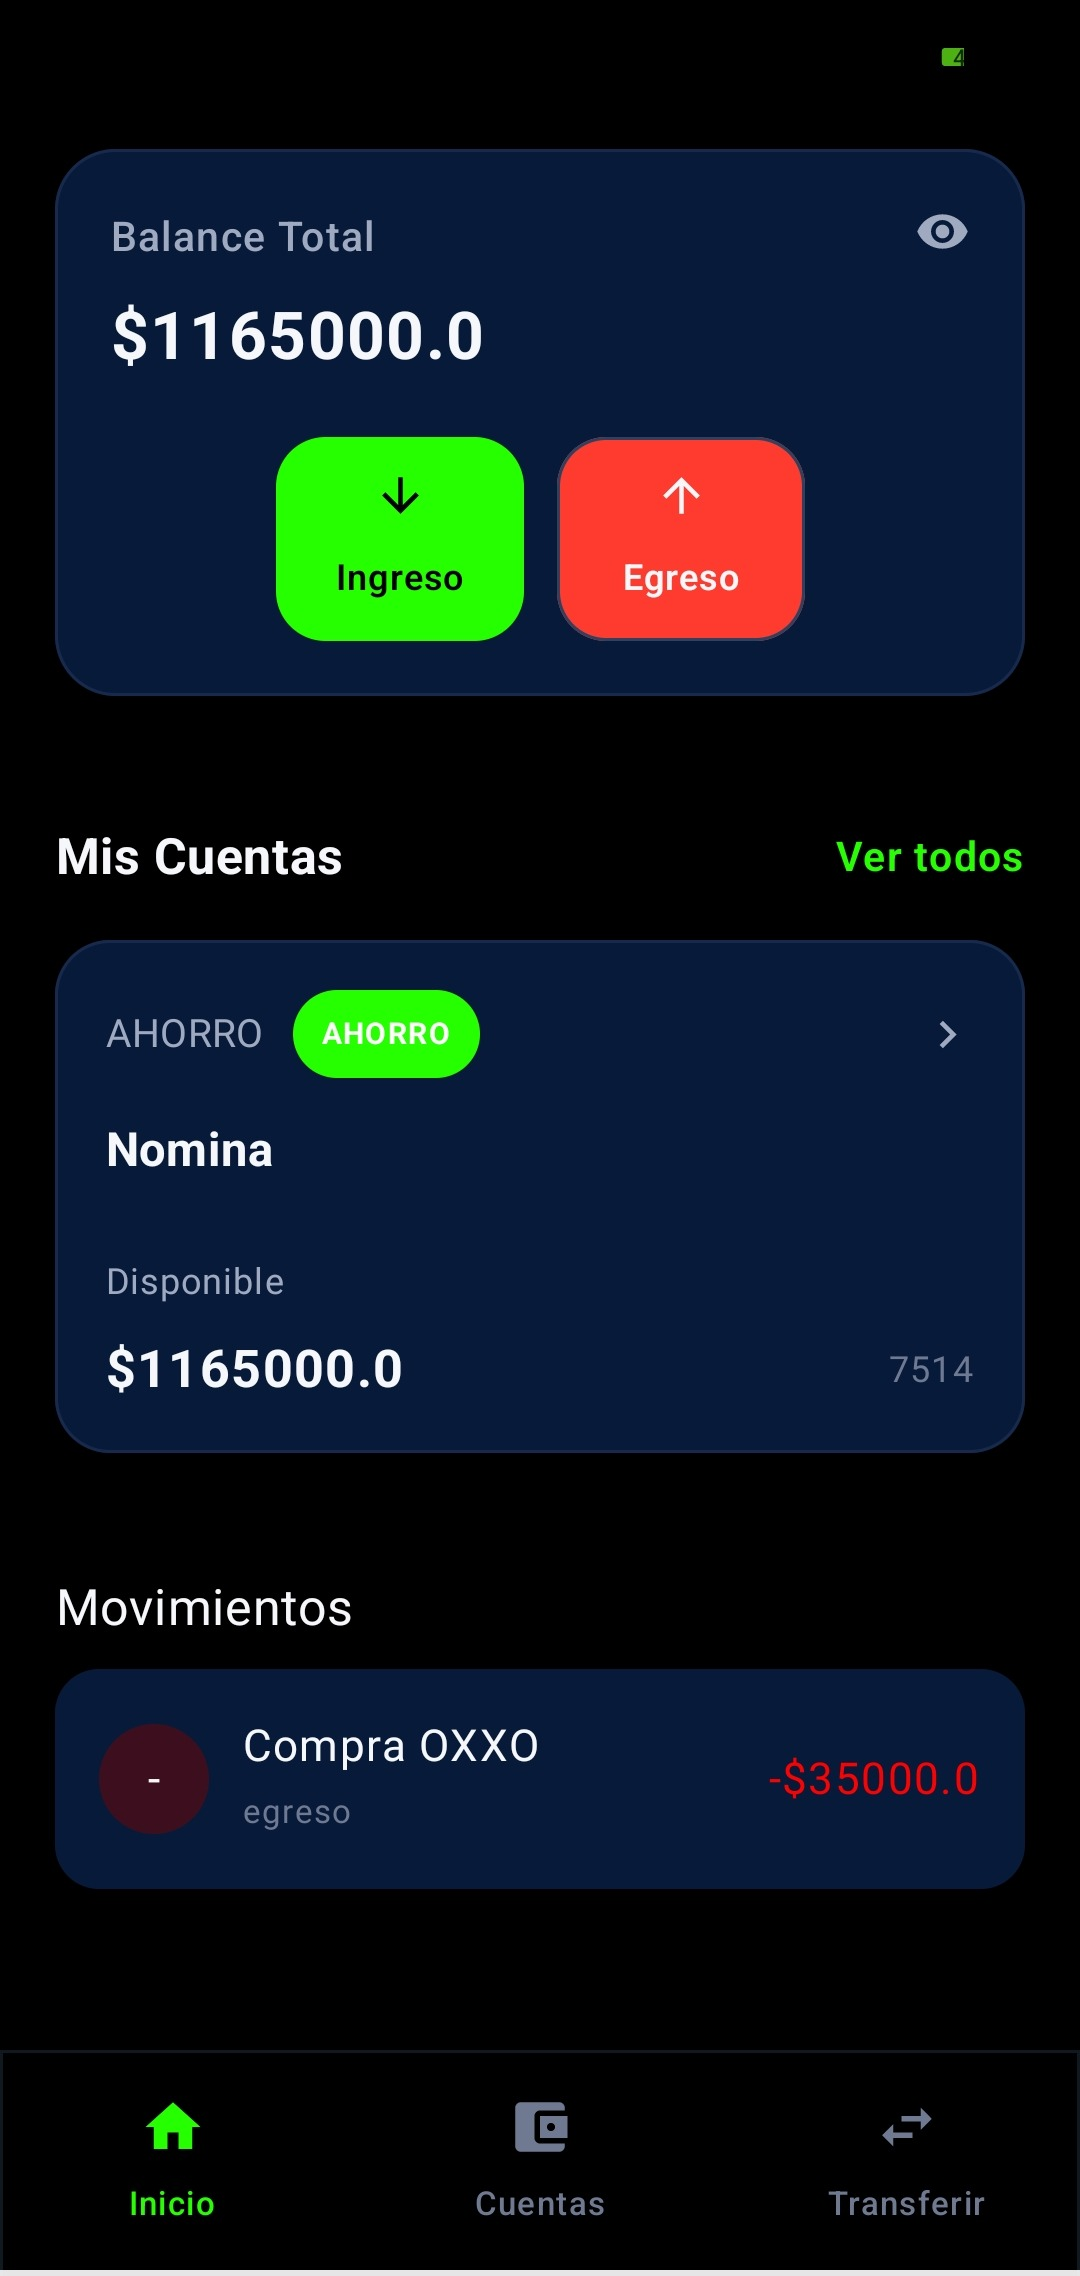
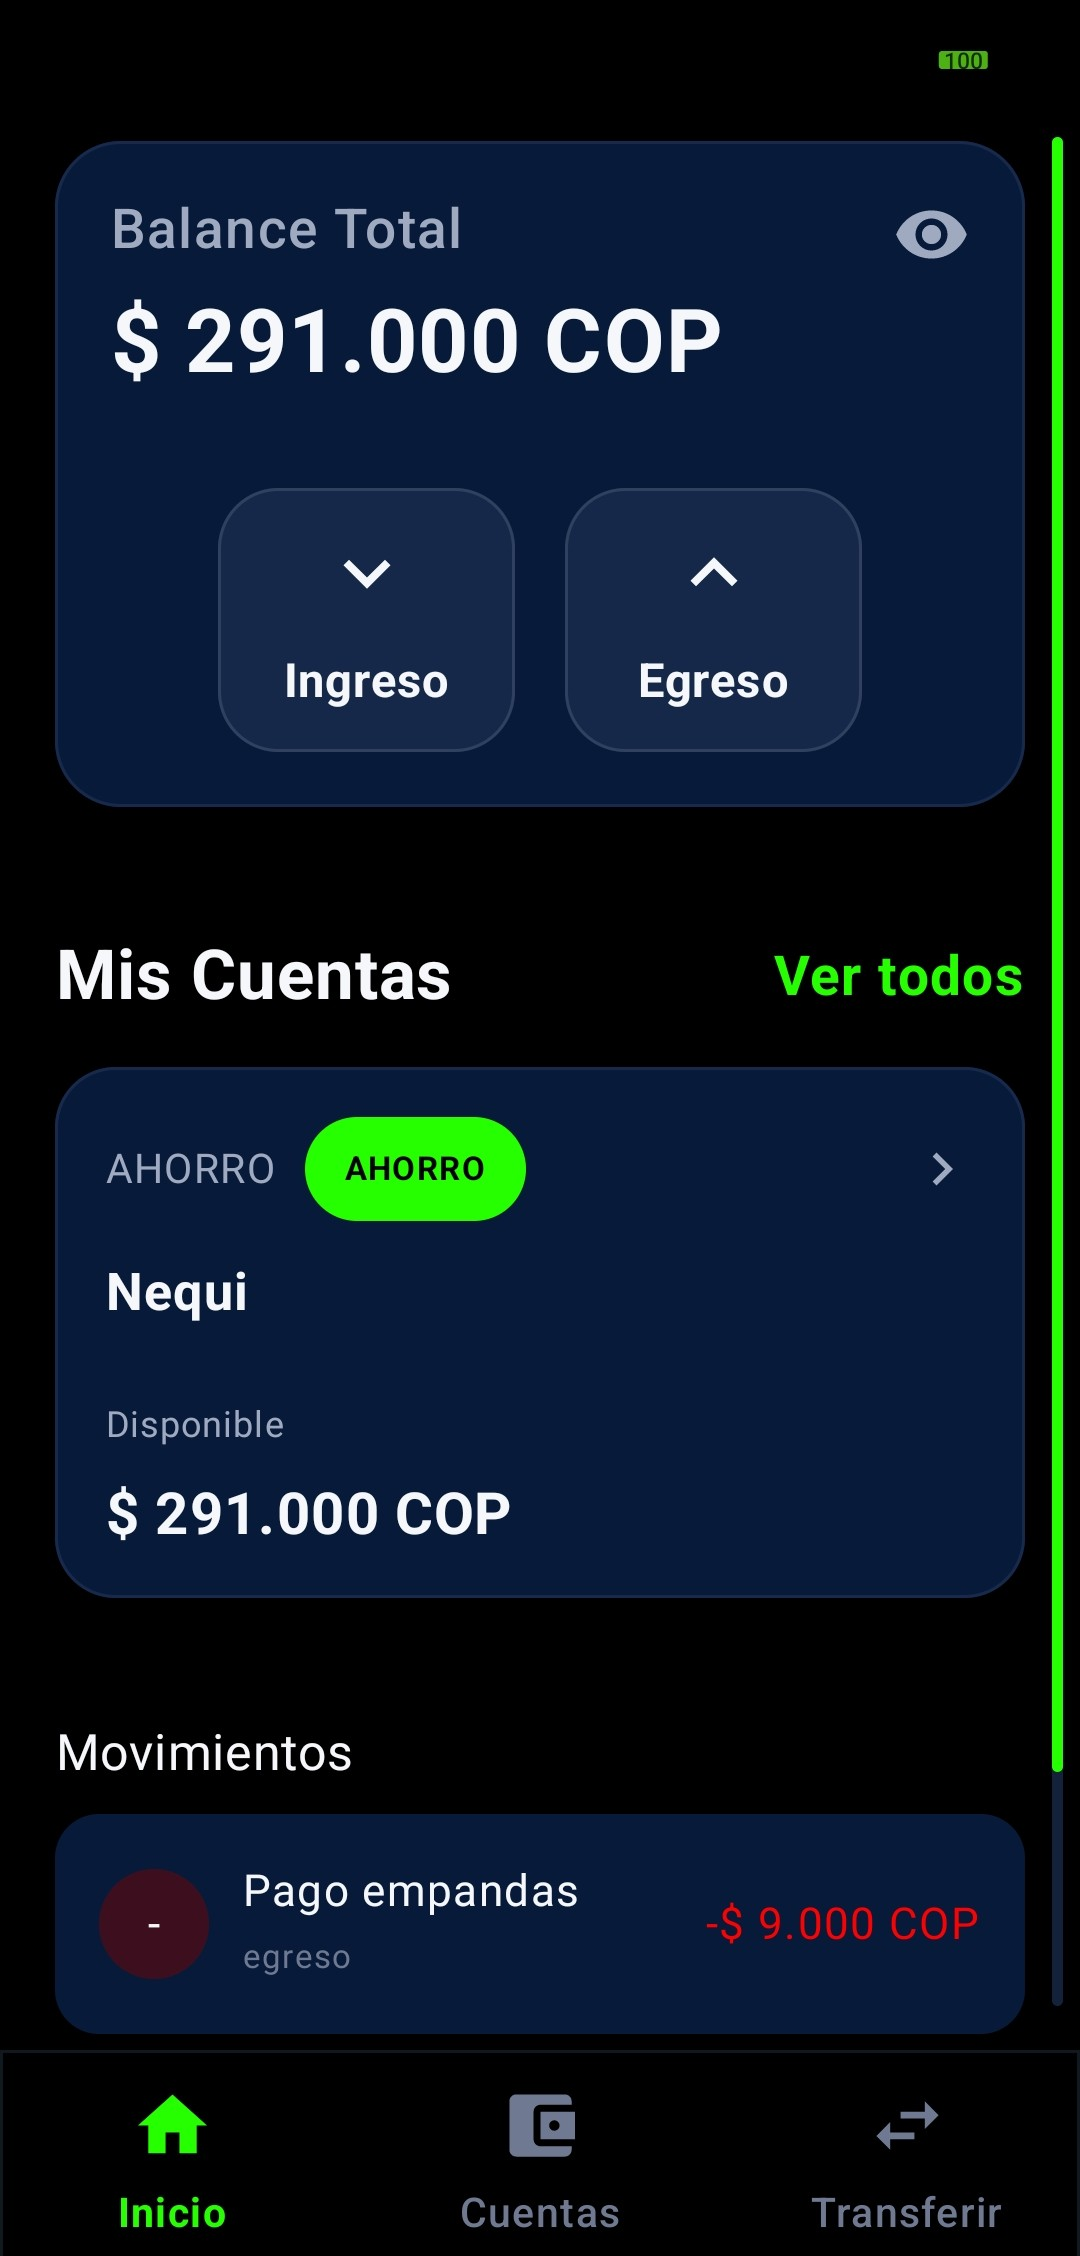
fix: correct grammatical errors and update documentation

diff --git a/app/src/main/java/com/example/finans_movil/ui/screens/CreateAccountView.kt b/app/src/main/java/com/example/finans_movil/ui/screens/CreateAccountView.kt
@@ -32,7 +32,10 @@ import androidx.compose.ui.unit.dp
 import androidx.navigation.NavController
 import com.example.finans_movil.Model.Account
 import com.example.finans_movil.Viewmodel.AccountsViewModel
+import com.example.finans_movil.ui.utilities.ThousandsSeparatorTransformation
 import kotlinx.coroutines.launch
+
+private val MutedSoft = Color(0xFF6F7A92)
 
 @OptIn(ExperimentalMaterial3Api::class)
 @Composable
@@ -132,10 +135,12 @@ fun  CreateAccountView(
                 value = balance,
                 onValueChange = { balance = it },
                 label = { Text("Saldo inicial") },
-                modifier = Modifier.fillMaxWidth(),
+                placeholder = {Text("0", color = MutedSoft)},
                 keyboardOptions = KeyboardOptions(
                     keyboardType = KeyboardType.Number
-                )
+                ),
+                visualTransformation = ThousandsSeparatorTransformation,
+                modifier = Modifier.fillMaxWidth()
             )
 
             OutlinedTextField(

diff --git a/app/src/main/java/com/example/finans_movil/ui/screens/HomeView.kt b/app/src/main/java/com/example/finans_movil/ui/screens/HomeView.kt
@@ -78,7 +78,7 @@ import com.example.finans_movil.Viewmodel.TransactionViewModel
 import com.example.finans_movil.Viewmodel.TransferViewModel
 import com.example.finans_movil.ui.utilities.formatCOP
 
-// ── Colores ──────────────────────────────────────────────────────────────────
+// Colores
 private val AppBg      = Color(0xFF000000)
 private val CardBg     = Color(0xFF081A3A)
 private val CardBorder = Color(0xFF172A4D)

diff --git a/docs/changelog.md b/docs/changelog.md
@@ -19,6 +19,22 @@ Todos los cambios representativos del proyecto serán documentados en este archi
 ### Eliminado
 
 - ... -->
+## [1.0.0] - 2026-05-18
+
+### Agregado
+
+- Formato de números en ingreso y visualización de balances
+
+### Corregido
+
+- Formato de la moneda
+- Balance total no incluye toda la cuentas
+- Movimientos negativos, ya no se permiten valores negativos
+
+## Cambiado
+
+- Se realiza cambio en los mockups por ajustes de funcionalidad
+- Se realiza cambios en el tipo de cuenta "cuenta activa" pasa a ser "Efectivo"
 
 ## [0.2.0] - 2026-05-04
 

diff --git a/docs/ui.md b/docs/ui.md
@@ -1,6 +1,6 @@
 # Diseño de interfaz de usuario
 
-La aplicación tendrá laS siguientes pantallas
+La aplicación cuenta con las siguientes pantallas
 
 1. Pantalla : Inicio
 
@@ -8,21 +8,20 @@ La aplicación tendrá laS siguientes pantallas
 
 2. Pantalla : Cuentas
 
-![screen2](images/Mockup-Cuentas.png)
+![screen2](images/Mockup-Cuentas.jpg)
 
 3. Pantalla : Detalles de cuenta
 
-![screen3](images/Mockup-DetallesDeCuentas.png)
+![screen3](images/Mockup-DetallesDeCuentas.jpg)
 
 4. Pantalla : Transferencias
 
 ![screen4](images/Mockup-Transferencias.jpg)
 
-Adicionalmente, se crea la Pantalla de Ingreso y Egreso que no se tenía prevista en la primera entrega.
 
-5. Pantalla : Ingreso o Egreso
+5. Pantalla : Ingreso / Egreso
 
-![screen4](images/Mockup-Transacion.png)
+![screen4](images/Mockup-Transacion.jpg)
 
 
 # Referencias

diff --git a/docs/funcionalidades.md b/docs/funcionalidades.md
@@ -11,4 +11,3 @@ La siguientes es una lista de las funcionalidades disponibles para el usuario de
     - Registrar ingresos (dinero que entra)
     - Registrar egresos (dinero que sale)
     - Visualizar el historial de movimientos
-    - Filtros en el historial